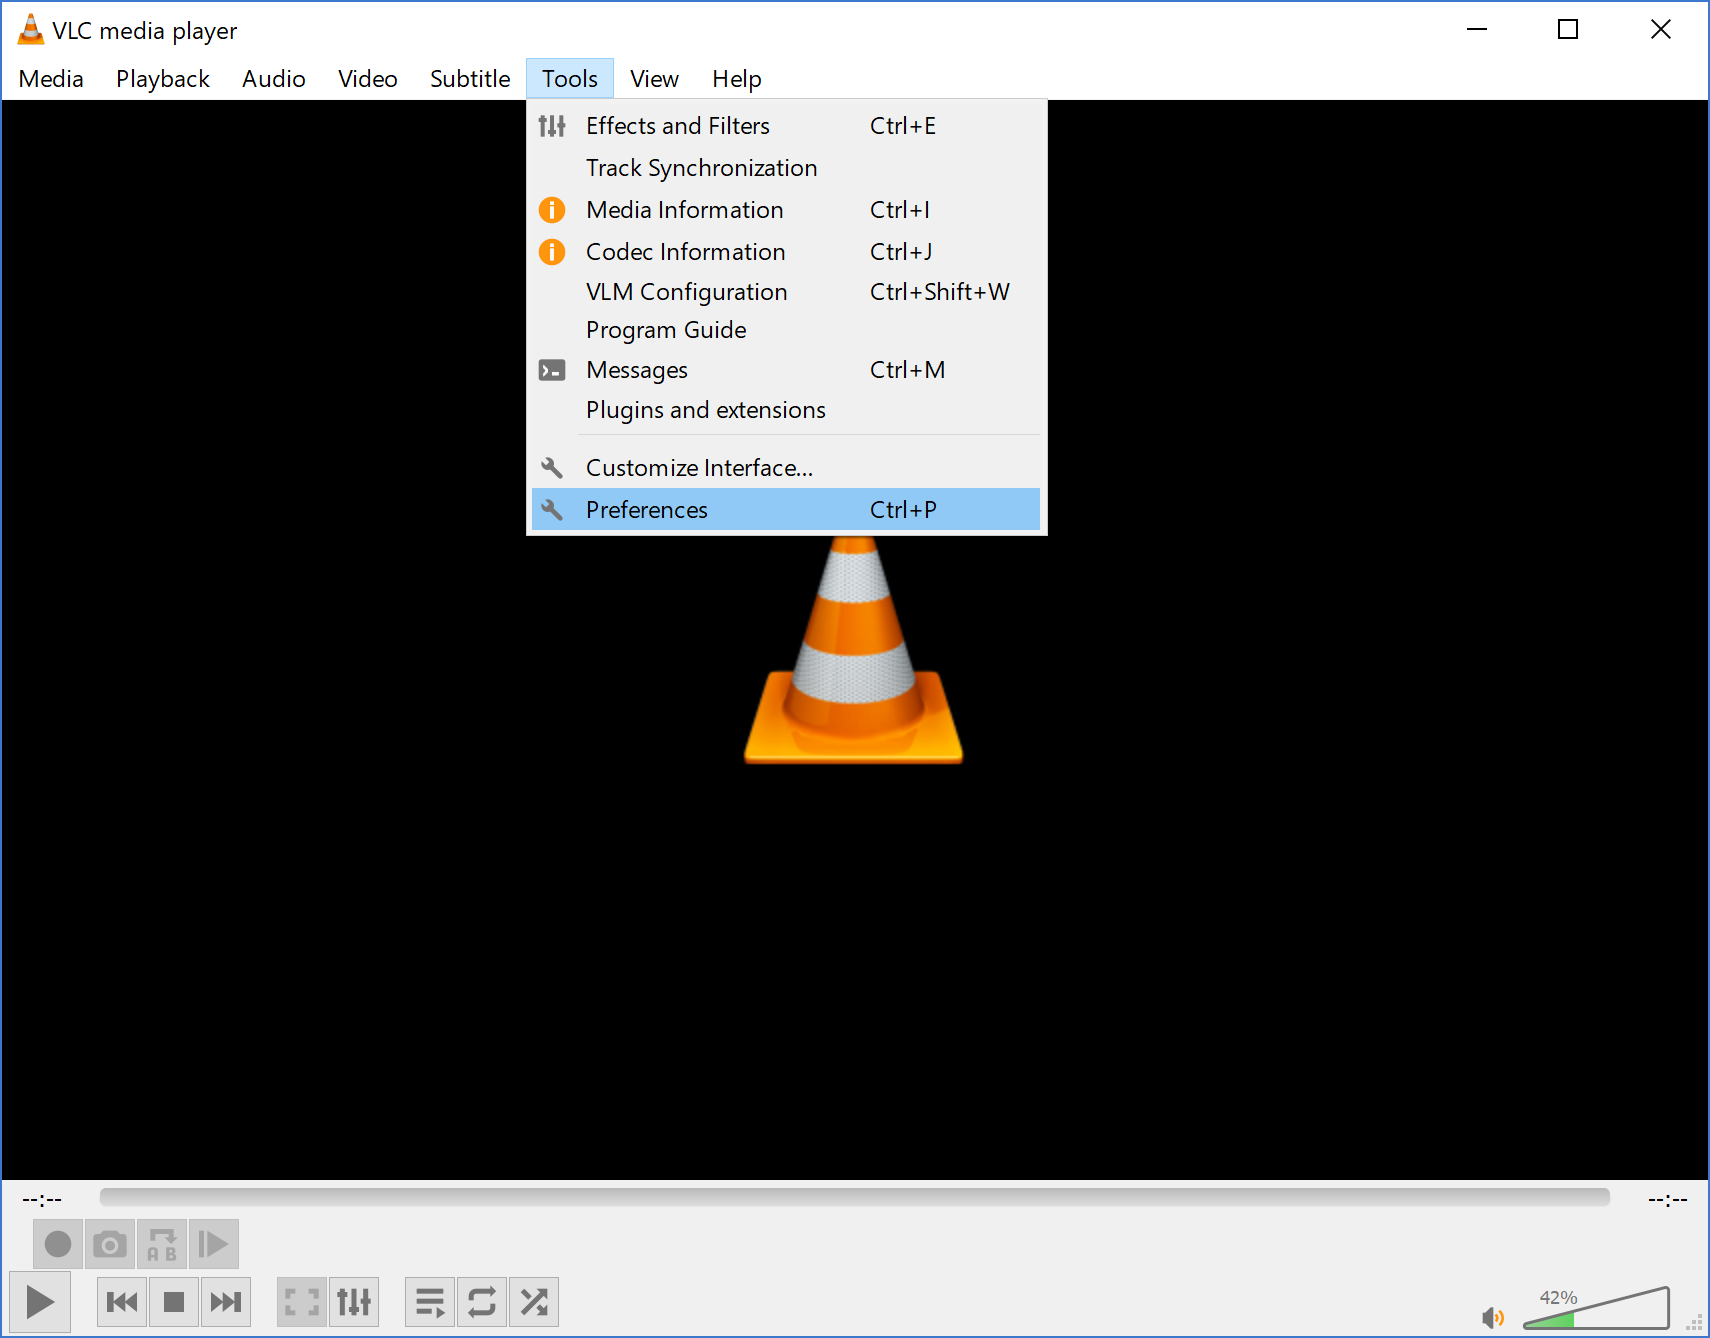
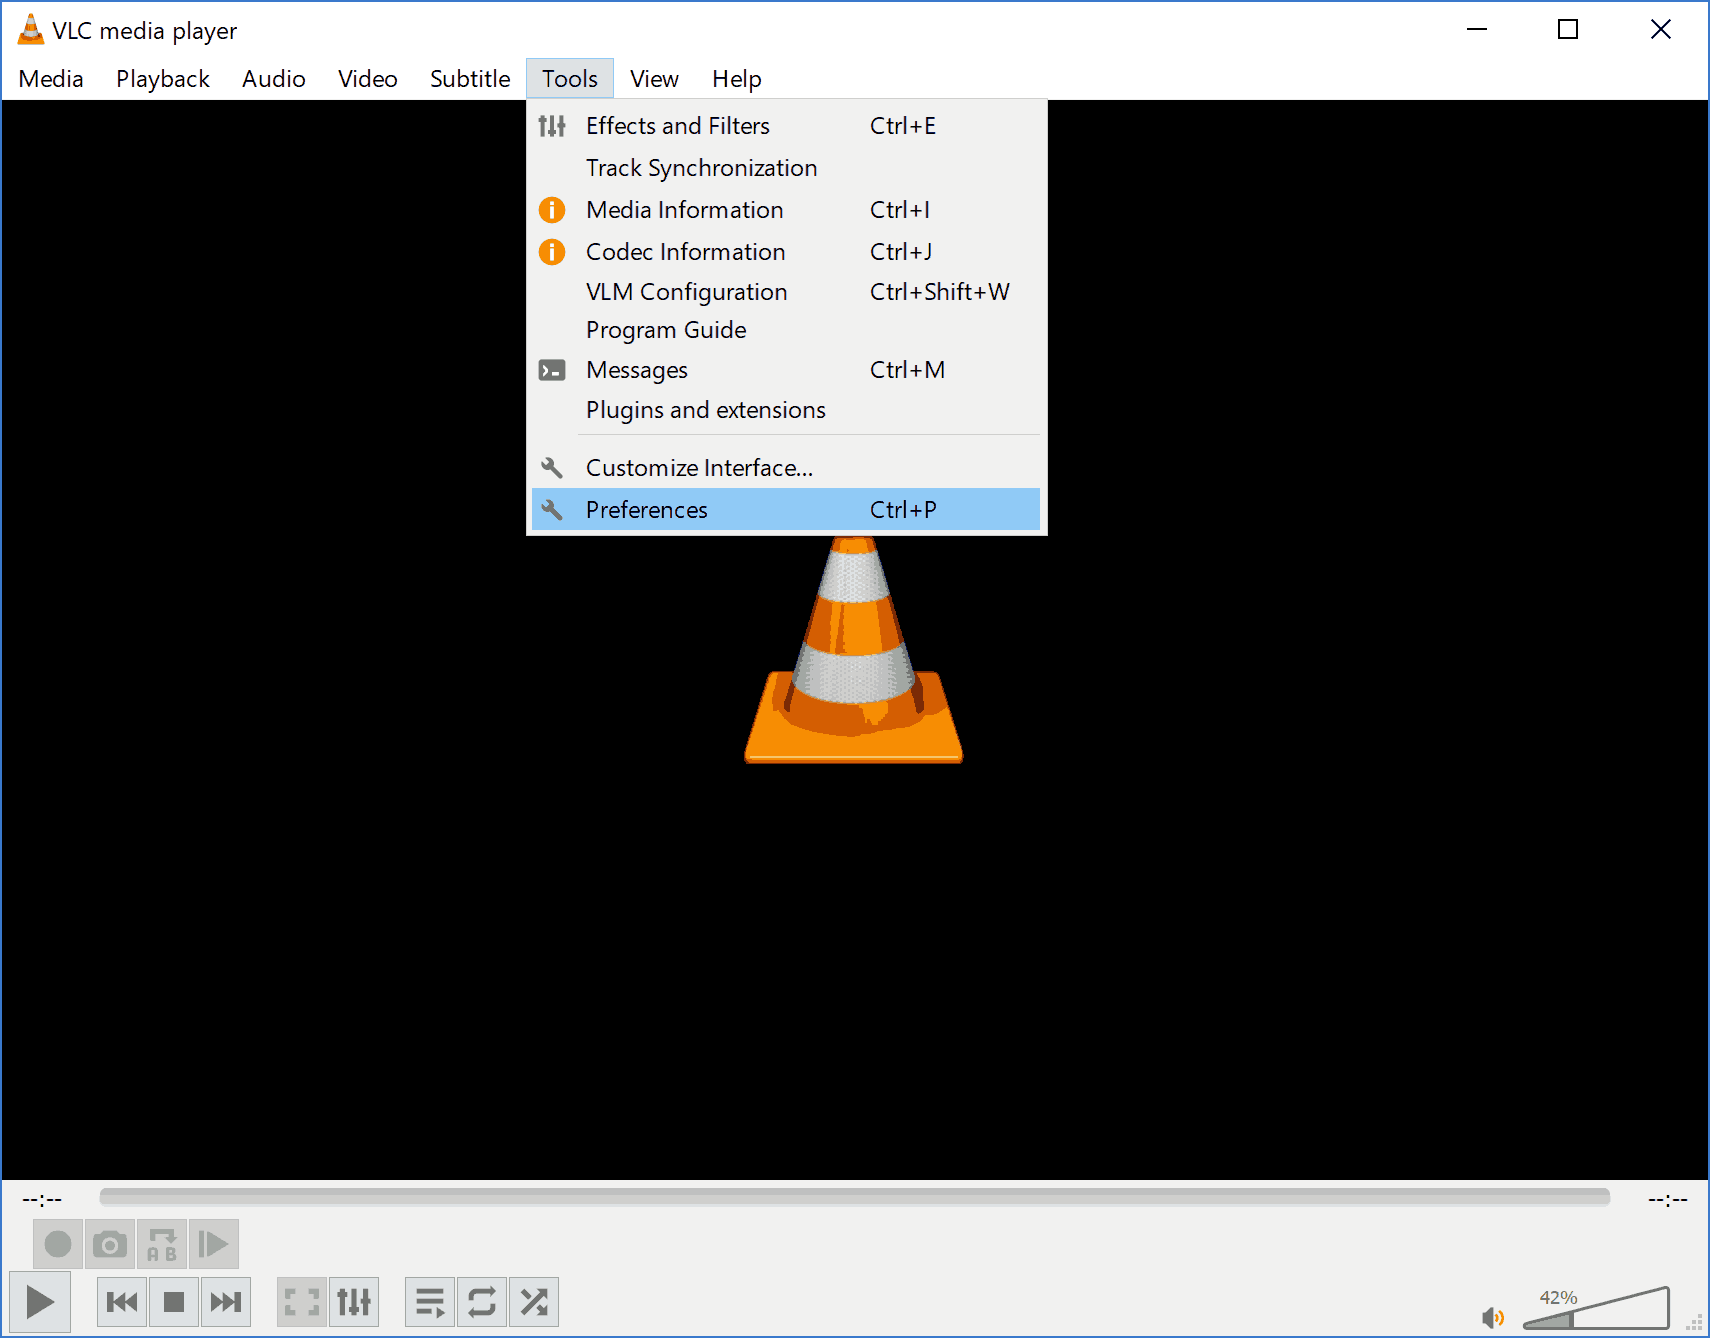
Tidy ViewVLC and compress ViewVLC assets

diff --git a/GUMCdocs/UFVdocs/UFV-ViewVLC.html b/GUMCdocs/UFVdocs/UFV-ViewVLC.html
@@ -228,10 +228,8 @@ header, .context-menu, .megamenu-content, footer { font-family: "Segoe UI", Aria
 </style>
 </head>
 <body class='typora-export os-windows' >
-<div  id='write'  class = 'is-node show-fences-line-number'><h1><a name='header-n0' class='md-header-anchor '></a>Viewing a camera live feed with VLC</h1><p>If using UniFi Video in Chrome on a computer is not working well, you can try streaming with VLC as an alternative. The following instructions are for Windows, but setup for VLC on Mac OS is similar. Note that VLC is best suited for viewing one camera at a time; UniFi Video in Chrome is likely to be a better experience for viewing multiple cameras. Contact Ben Terry if you have any issues with streaming a camera feed with VLC.</p><p>&nbsp;</p><h2><a name='header-n38' class='md-header-anchor '></a>Configuring VLC to work with UniFi Video live streams</h2><ol start='' ><li>Install <a href='**https://www.videolan.org/vlc/**'>VLC media player</a> (x64 bit preferred.)</li><li>Launch VLC. From the menu bar, choose <strong>Tools</strong>, then <strong>Preferences.</strong>
-<img src='UFV-ViewVLC.assets/UFV-ViewVLC-02.png' alt='UFV-ViewVLC-02' referrerPolicy='no-referrer' />
-</li><li>In the lower left, set the <strong>Show settings</strong> radio button to <strong>All.</strong> Next, type <code>rtsp</code> into the search box at the upper left. Select the <em>Input / Codecs</em> -&gt; <em>Demuxers</em> -&gt; <strong>RTP/RTSP</strong> list item. Then check <em>User RTP over RTSP (TCP)</em>.
-<img src='UFV-ViewVLC.assets/UFV-ViewVLC-04.png' alt='UFV-ViewVLC-04' referrerPolicy='no-referrer' />
-</li><li>VLC should now be ready to stream UFV live feeds. </li></ol><p>&nbsp;</p><h2><a name='header-n66' class='md-header-anchor '></a>Streaming with VLC</h2><h3><a name='header-n70' class='md-header-anchor '></a>Easy option: Shortcut</h3><ol><li><p>Double click the shortcut file provided by the system administrator for the camera feed. VLC should launch and load the video feed within about 10 seconds.</p><p><em>Notes:</em></p><ol><li>If 64 bit VLC was installed, use the x64 shortcut; use the x32 shortcut if 32 bit VLC was installed.</li><li>If VLC was installed with non-default options, the shortcut may not be able to find VLC.exe</li><li>The credentials needed to view the live feed may change in the future requiring the shortcut to be updated.</li></ol></li></ol><h3><a name='header-n157' class='md-header-anchor '></a>Alternative option: Enter network source</h3><ol><li>Log into UniFi video in a web browser using a user account with <code>Camera Edit</code> privileges or full system Administrator. </li><li>Select the camera, scroll down to the bottom of the <em>Video</em> tab, expand the <strong>RTSP Service</strong> box, and copy the desired stream URL.</li><li>In VLC, choose <strong>Media</strong> from the menu bar, click <strong>Open Network Stream</strong>, paste the stream URL, and click <strong>Play</strong>.</li></ol><p>&nbsp;</p><hr /><p><a href='/GUMCdocs/UFVdocs/index.html'>Return to UFV doc list</a><span>															</span></p><p><em>Updated 2018-07-06</em> for VLC 3.0.3 and UFV 3.9.7</p></div>
+<div  id='write'  class = 'is-node show-fences-line-number'><h1><a name='header-n246' class='md-header-anchor '></a>Viewing a camera live feed with VLC</h1><p>If using UniFi Video in Chrome on a computer is not working well, you can try streaming with VLC as an alternative. The following instructions are for Windows, but setup for VLC on Mac OS is similar. Note that VLC is best suited for viewing one camera at a time; UniFi Video in Chrome is likely to be a better experience for viewing multiple cameras. Contact Ben Terry if you have any issues with streaming a camera feed with VLC.</p><p>&nbsp;</p><h2><a name='header-n252' class='md-header-anchor '></a>Configuring VLC to work with UniFi Video live streams</h2><ol start='' ><li>Install <a href='**https://www.videolan.org/vlc/**'>VLC media player</a> (x64 bit preferred.)</li><li>Launch VLC. From the menu bar, choose <strong>Tools</strong>, then <strong>Preferences.</strong>
+<img src='UFV-ViewVLC.assets/UFV-ViewVLC-02.png' alt='UFV-ViewVLC-02' referrerPolicy='no-referrer' /></li><li>In the lower left, set the <strong>Show settings</strong> radio button to <strong>All.</strong> Next, type <code>rtsp</code> into the search box at the upper left. Select the <em>Input / Codecs</em> -&gt; <em>Demuxers</em> -&gt; <strong>RTP/RTSP</strong> list item. Then check <em>User RTP over RTSP (TCP)</em>. Click <strong>Save</strong> to save and close the preferences menu.
+<img src='UFV-ViewVLC.assets/UFV-ViewVLC-04.png' alt='UFV-ViewVLC-04' referrerPolicy='no-referrer' /></li><li>VLC should now be ready to stream UFV live feeds. </li></ol><p>&nbsp;</p><h2><a name='header-n270' class='md-header-anchor '></a>Streaming with VLC</h2><h3><a name='header-n271' class='md-header-anchor '></a>Easy option: Shortcut</h3><ol start='' ><li><p>Double click the shortcut file provided by the system administrator for the camera feed. VLC should launch and load the video feed within about 10 seconds.</p><p><em>Notes:</em></p><ol start='' ><li>If 64 bit VLC was installed, use the x64 shortcut; use the x32 shortcut if 32 bit VLC was installed.</li><li>If VLC was installed with non-default options, the shortcut may not be able to find VLC.exe</li><li>The credentials needed to view the live feed may change in the future requiring the shortcut to be updated.</li></ol></li></ol><h3><a name='header-n288' class='md-header-anchor '></a>Alternative option: Enter network source</h3><ol start='' ><li>Log into UniFi video in a web browser using a user account with <code>Camera Edit</code> privileges or full system Administrator. </li><li>Select the camera, scroll down to the bottom of the <em>Video</em> tab, expand the <strong>RTSP Service</strong> box, and copy the desired stream URL.</li><li>In VLC, choose <strong>Media</strong> from the menu bar, click <strong>Open Network Stream</strong>, paste the stream URL, and click <strong>Play</strong>.</li></ol><p>&nbsp;</p><hr /><p><a href='/GUMCdocs/UFVdocs/index.html'>Return to UFV doc list</a><span>															</span></p><p><em>Updated 2018-07-06</em> for VLC 3.0.3 and UFV 3.9.7</p></div>
 </body>
 </html>

diff --git a/GUMCdocs/UFVdocs/UFV-ViewVLC.md b/GUMCdocs/UFVdocs/UFV-ViewVLC.md
@@ -10,7 +10,7 @@ If using UniFi Video in Chrome on a computer is not working well, you can try st
 2. Launch VLC. From the menu bar, choose **Tools**, then **Preferences.**
    ![UFV-ViewVLC-02](UFV-ViewVLC.assets/UFV-ViewVLC-02.png)
    
-3. In the lower left, set the **Show settings** radio button to **All.** Next, type `rtsp` into the search box at the upper left. Select the *Input / Codecs* -> *Demuxers* -> **RTP/RTSP** list item. Then check *User RTP over RTSP (TCP)*.
+3. In the lower left, set the **Show settings** radio button to **All.** Next, type `rtsp` into the search box at the upper left. Select the *Input / Codecs* -> *Demuxers* -> **RTP/RTSP** list item. Then check *User RTP over RTSP (TCP)*. Click **Save** to save and close the preferences menu.
    ![UFV-ViewVLC-04](UFV-ViewVLC.assets/UFV-ViewVLC-04.png)
    
 4. VLC should now be ready to stream UFV live feeds. 
